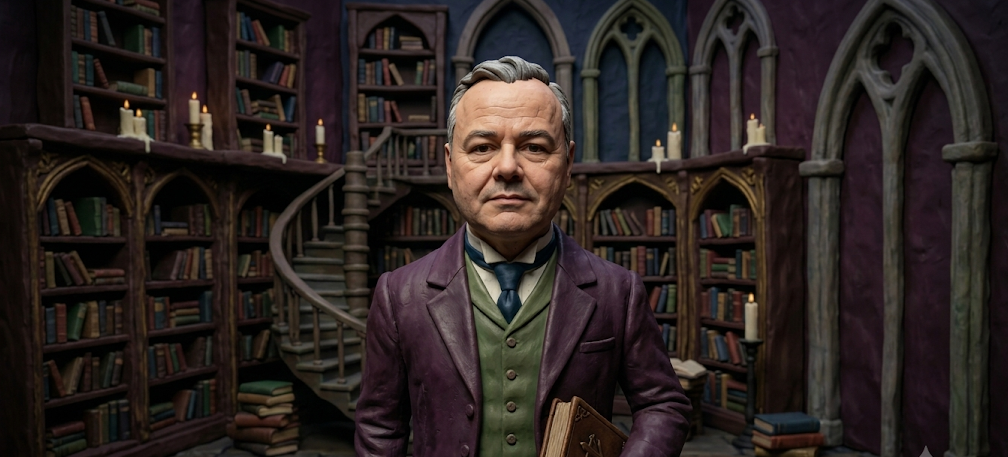
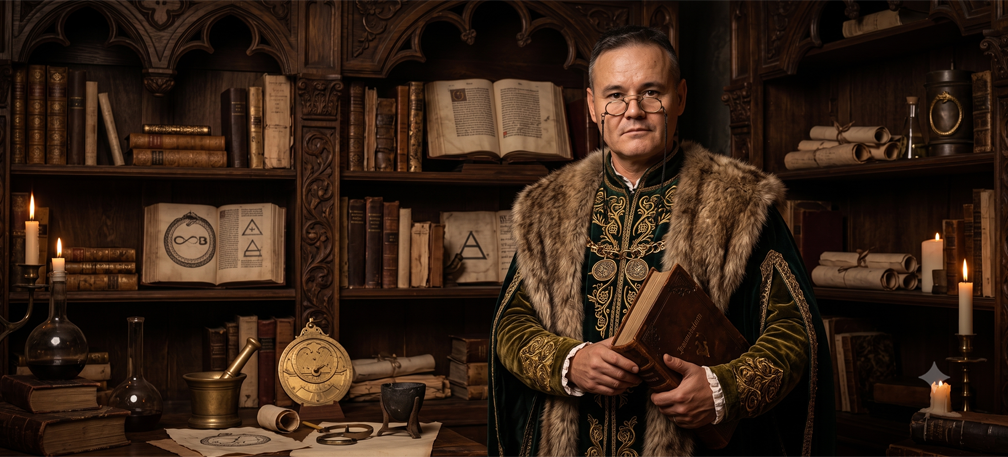
fix: incluir nfc en PROY_VOL → el badge 📶 llega a tomos de obra y miembros de colección

diff --git a/src/api-panel.js b/src/api-panel.js
@@ -38,7 +38,7 @@ import { describirCDU } from './utils/descripcion-cdu.js';
 import { describirClasificacion } from './utils/descripcion-clasificacion.js';
 
 // Proyección mínima de un documento para mostrarlo como "tomo" en la vista de obra.
-const PROY_VOL = { titulo: 1, volumen_titulo: 1, volumen_numero: 1, formatos: 1, isbn: 1, portada: 1, paginas: 1, tipo_recurso: 1, nsfw: 1, locked: 1 };
+const PROY_VOL = { titulo: 1, volumen_titulo: 1, volumen_numero: 1, formatos: 1, isbn: 1, portada: 1, paginas: 1, tipo_recurso: 1, nsfw: 1, locked: 1, nfc: 1 };
 
 // Ruta (en /recursos) del fichero original de un documento, SIN codificar: el front la %-codifica por
 // segmentos al usarla (así funciona aunque la carpeta tenga caracteres heredados como '#', '%', espacios).